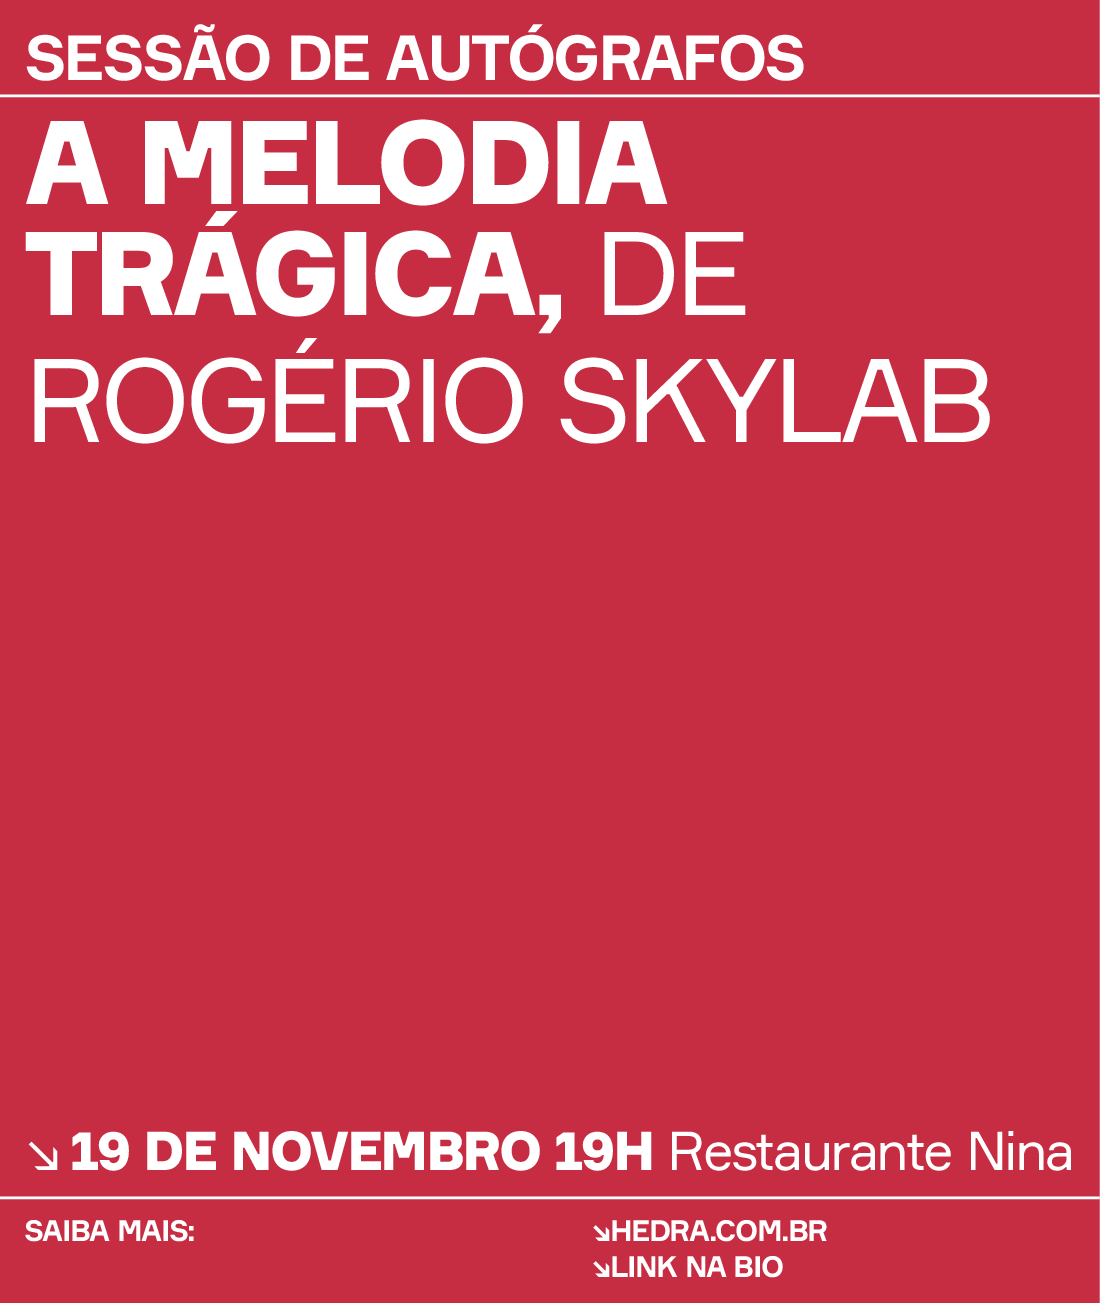
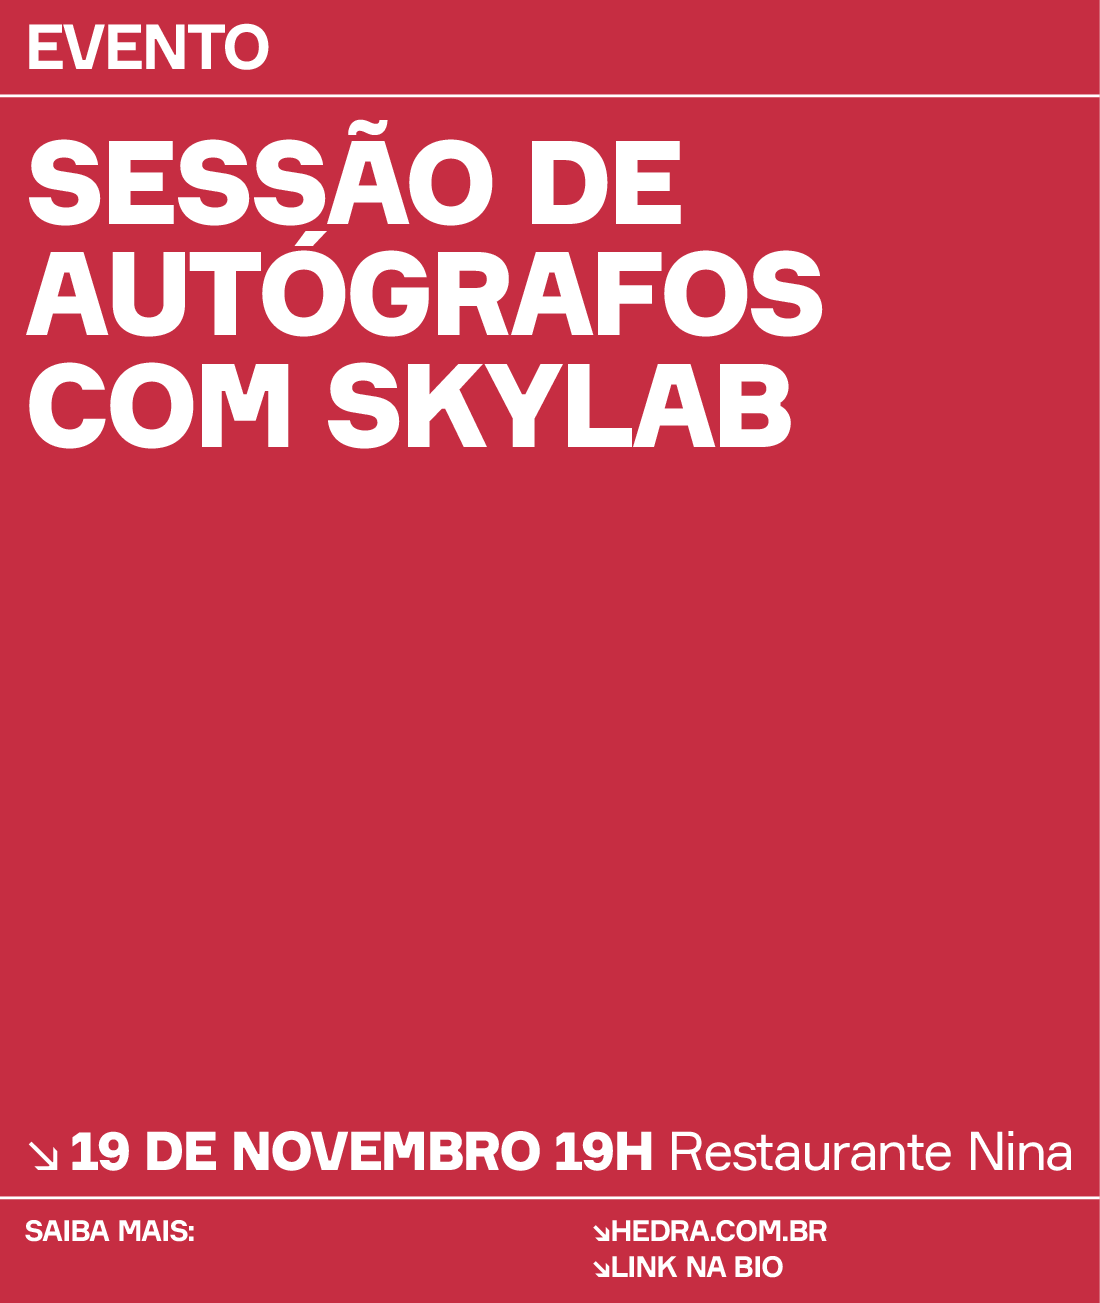
alterando post skylab

Changed region(s): [[0.0309, 0.0921, 0.8964, 0.3684], [0.0309, 0.0, 0.7418, 0.0614]]

diff --git a/campanhas/skylab/SKYLAB_MELODIA_LANCAMENTO_CURITIBA.tex b/campanhas/skylab/SKYLAB_MELODIA_LANCAMENTO_CURITIBA.tex
@@ -26,7 +26,7 @@
 
 \starttext %---------------------------------------------------------|
 
-\Mensagem{SESSÃO DE AUTÓGRAFOS}
+\Mensagem{EVENTO}
 
 
 \startMyCampaign
@@ -34,8 +34,8 @@
 \hyphenpenalty=10000
 \exhyphenpenalty=10000
 
-{\bf A MELODIA TRÁGICA,} DE
- ROGÉRIO SKYLAB 
+{\bf SESSÃO DE AUTÓGRAFOS COM
+ SKYLAB} 
 \stopMyCampaign
 
 \vfill
@@ -52,7 +52,7 @@
 \hyphenpenalty=10000
 \exhyphenpenalty=10000
 
-O evento do livro {\bf A MELODIA TRÁGICA} contará com uma sessão de autográfos como autor, {\bf ROGÉRIO SKYLAB}.
+O evento do livro {\bf A MELODIA TRÁGICA} contará com uma sessão de autográfos com o autor, {\bf ROGÉRIO SKYLAB}.
 
 {\vfill\scale[factor=5]{\Seta\,O {\bf Restaurante Nina} fica na R.\,Mal.\,Deodoro, 847,}\setupinterlinespace[line=1.7ex]\scale[factor=5]{Centro, Curitiba.}}
 
